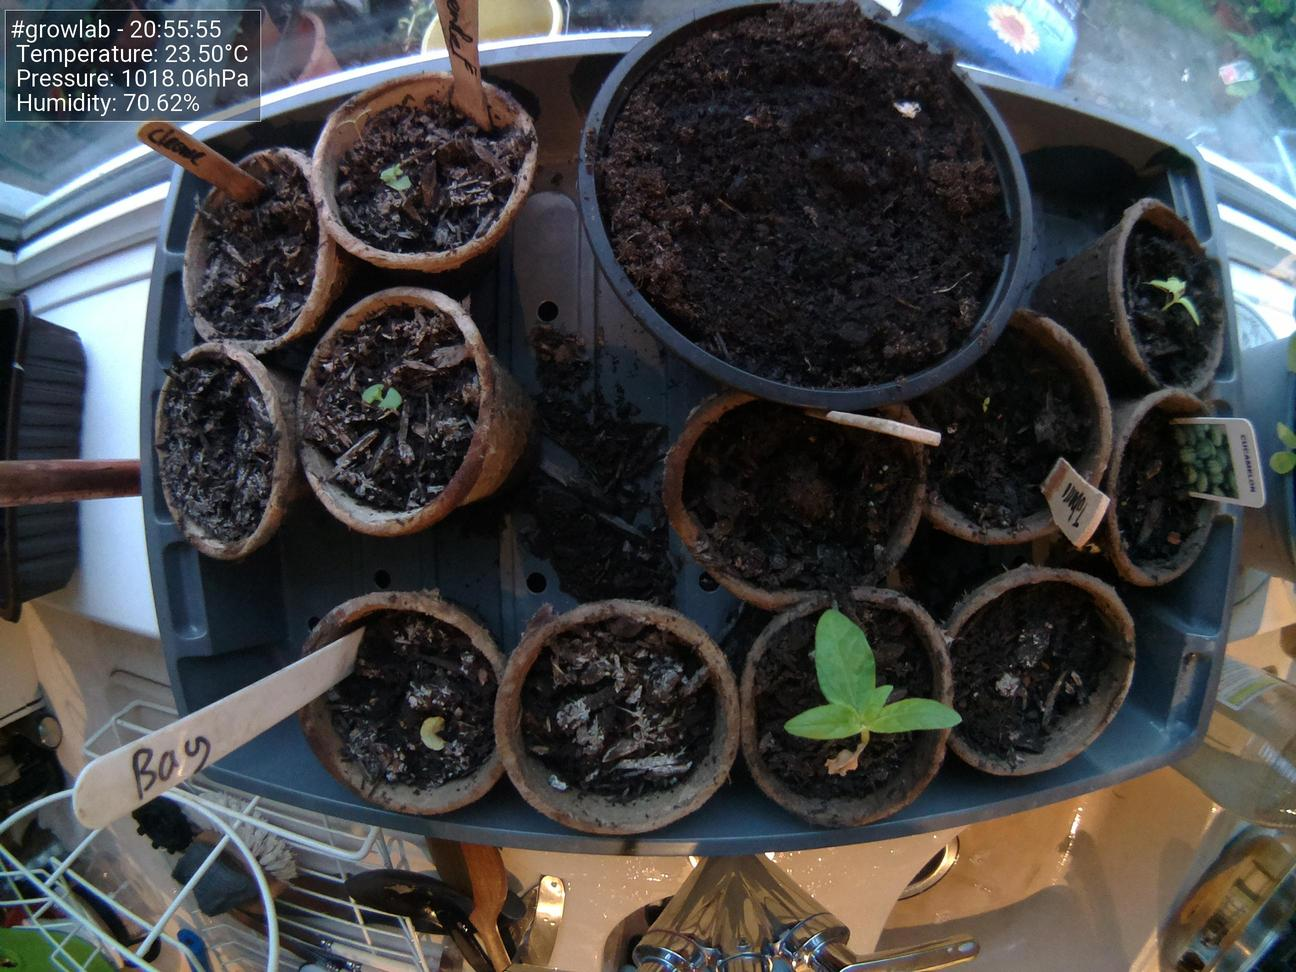
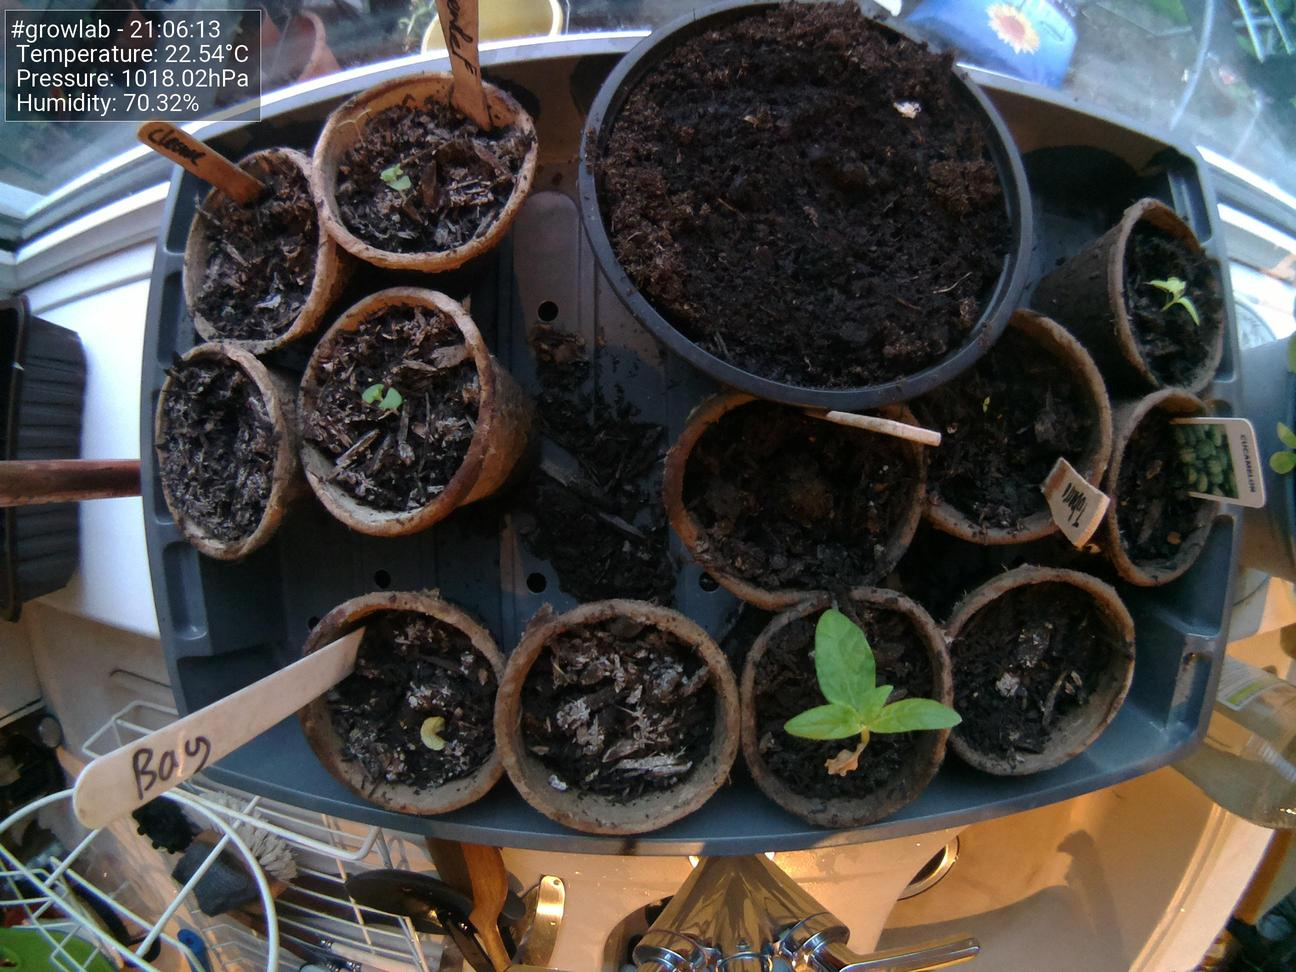
Update images at Thu 24 Jun 21:06:22 BST 2021

diff --git a/docs/index.html b/docs/index.html
@@ -47,19 +47,19 @@
                         <tbody>
                             <tr>
                                 <td>Time</td>
-                                <td>20:55:55</td>
+                                <td>21:06:13</td>
                             </tr>
                             <tr>
                                 <td>Temperature</td>
-                                <td>23.50°C</td>
+                                <td>22.54°C</td>
                             </tr>
                             <tr>
                                 <td>Humidity</td>
-                                <td>70.62%</td>
+                                <td>70.32%</td>
                             </tr>
                             <tr>
                                 <td>Pressure</td>
-                                <td>1018.06hPa</td>
+                                <td>1018.02hPa</td>
                             </tr>
                         </tbody>
                     </table>
@@ -67,7 +67,7 @@
 
                 <h5>Latest image</h5>
                 <div style="width: 85%;">
-                            <img class="figure-img img-fluid rounded" src="./preview.jpg?uid=1624564563.6241157">
+                            <img class="figure-img img-fluid rounded" src="./preview.jpg?uid=1624565181.6864688">
                 </div>
             </div>
         </div>
